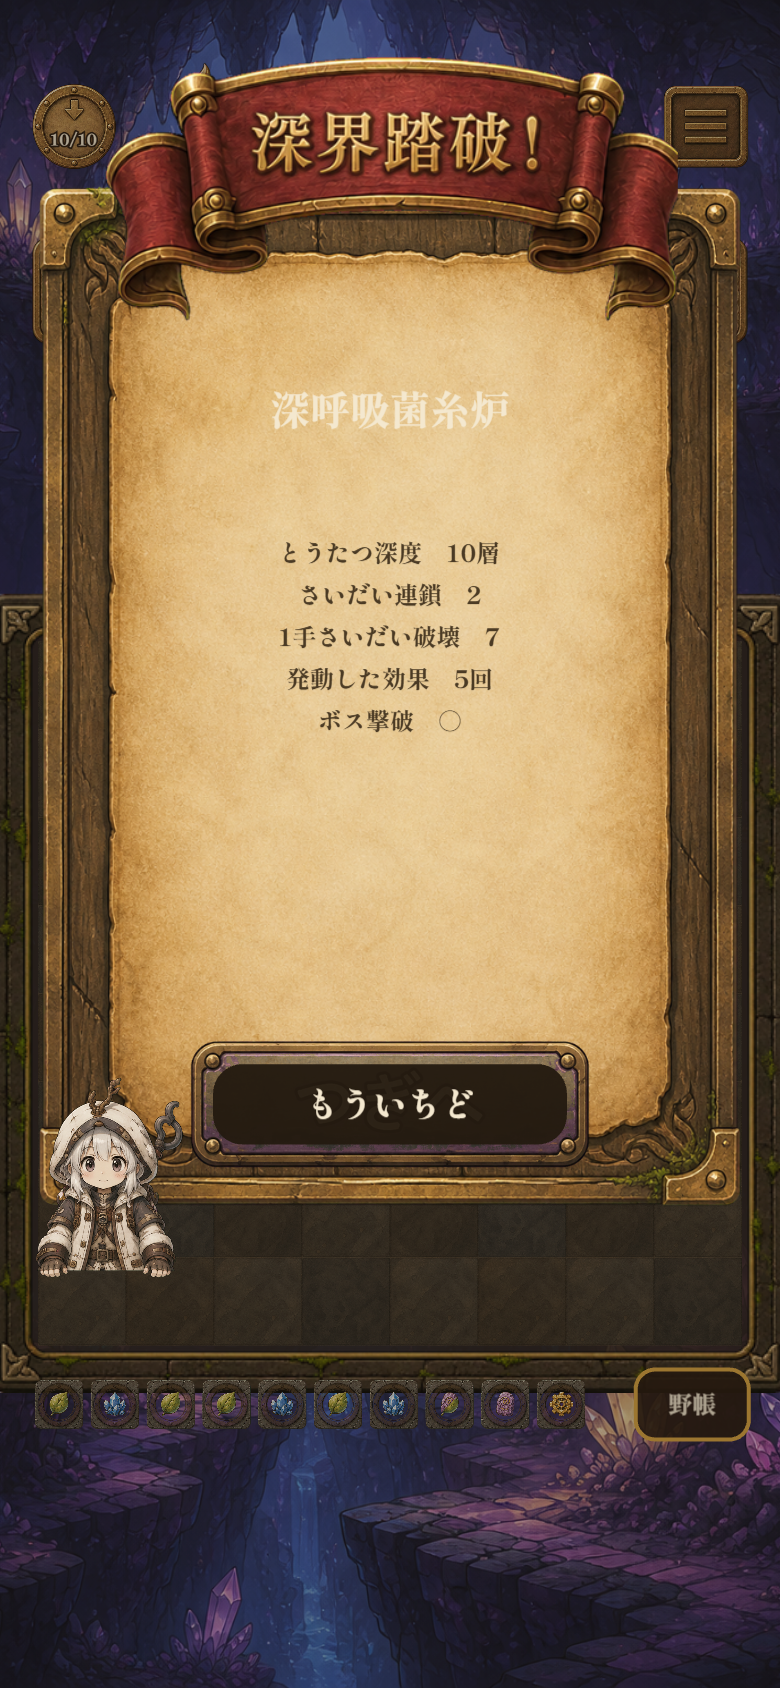
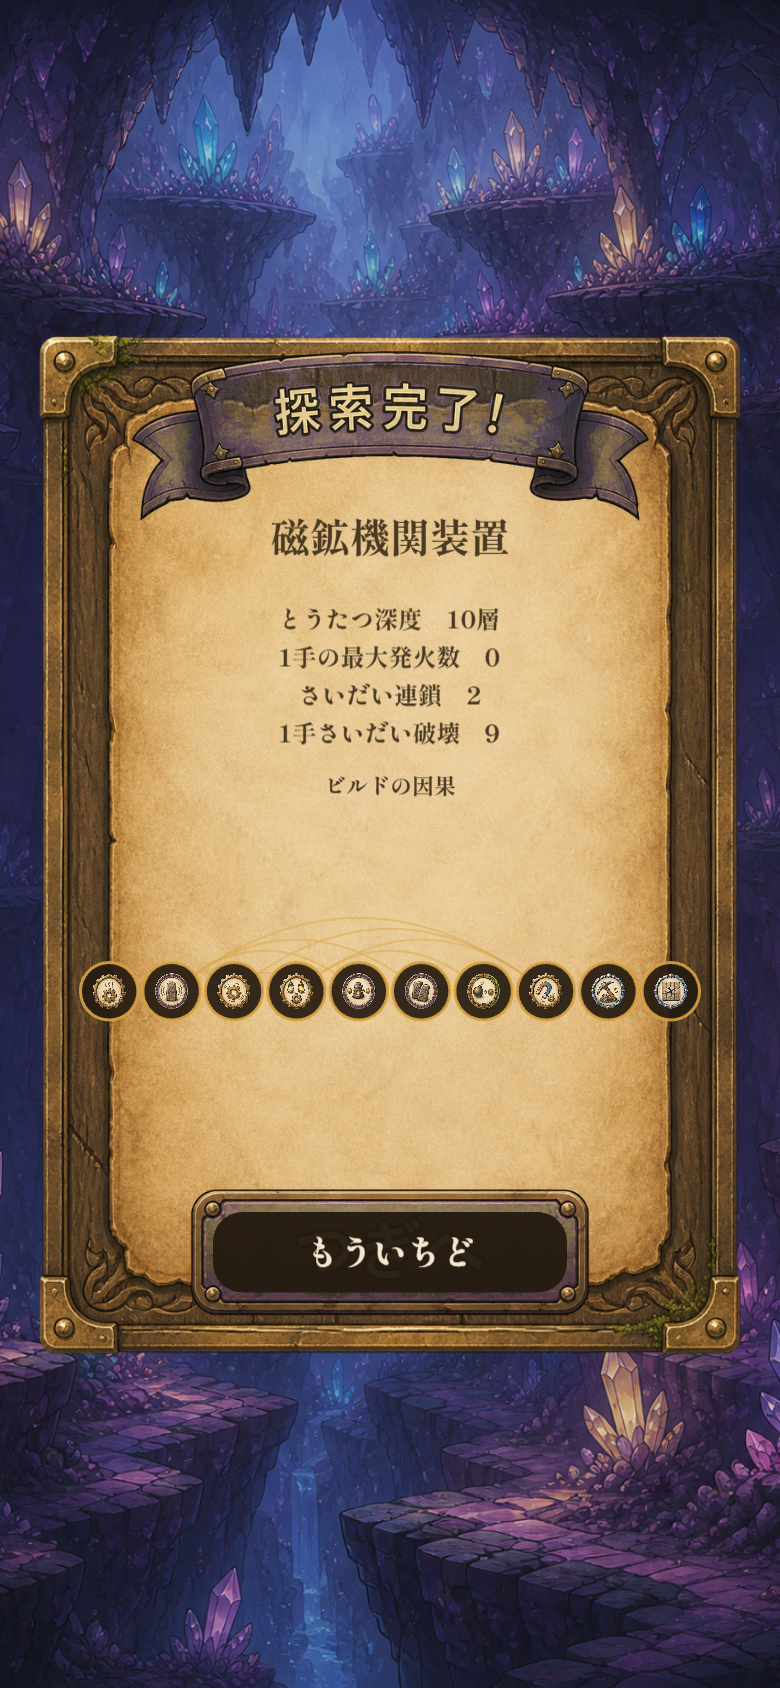
yacho(rogue): ラン結果を独立シーン化＋ビルドの因果図（監査[C]7 / [E]3）
指摘: 結果画面が旧画面の残骸（深度バッジ・メニュー・盤面・ドック）を背面に
残したままパネルを重ねており、ビルド名も羊皮紙上で低コントラストだった。

- playRoot を空にしてから描く独立シーンへ。層テーマ背景＋薄い暗幕
- 勝利はテーマ別リボン、敗北は「ここまでの記録」。「ボス撃破 ○」の行は削除
  （見出しで表現する）
- ビルド名を墨色にして可読性を確保
- 主記録に「1手の最大発火数」を新設（RunRecords.maxFiresInOneMove。
  board.ts は触らず main.ts で upgrade-fire を数えて更新）
- ビルドの因果図: 所持強化を固有アイコンで並べ、consumes/produces が繋がる
  もの同士を弧線で結ぶ。閉じた輪は強調
- 見出し「ビルドの因果」の色とアイコン下限サイズを調整（薄すぎ/小さすぎの解消）
- QA専用フック forceRunEnd(victory) を追加（結果画面の検証用）

QA: tsc 0 / 90テスト green / 勝敗×3サイズのスクショ確認 / 通し検証 pageerror 0

diff --git a/games/yacho/src/main.ts b/games/yacho/src/main.ts
@@ -1912,6 +1912,10 @@ async function boot() {
       const dur = view.play(evs)
       refreshFloorHud()
       refreshProgressBadges() // 可視化第二波④：1手ごとに進捗（あれば）を反映
+      // 結果画面の主記録用（夜間監査[C]7/[E]3）：1手＝このevs全体で発火した upgrade-fire の件数。board.ts は変更禁止のため
+      // main.ts側でイベント列を数えて集計する（board.ts が触らない run.records の追加フィールド）。
+      const firesThisMove = evs.reduce((n, e) => n + (e.t === 'upgrade-fire' ? 1 : 0), 0)
+      if (firesThisMove > run.records.maxFiresInOneMove) run.records.maxFiresInOneMove = firesThisMove
       for (const e of evs) {
         if (e.t === 'poison-triggered') {
           hpHitFx(1)
@@ -2307,7 +2311,9 @@ async function boot() {
       renderBottom() // 初期状態＝未選択（[D]：未選択時はボタンが「カードを選んで比較」のまま無効化）
     }
 
-    // ---------- 記録画面（層10クリア or run-over。ROGUE.md §7/§8） ----------
+    // ---------- 結果シーン（層10クリア or run-over。ROGUE.md §7/§8） ----------
+    // 夜間監査[C]7/[E]3：旧実装はプレイシーンへパネルを重ねるだけで、背後にHUD・盤面・ビルドドックの残骸が残っていた。
+    // 拠点シーン(showMap)と同じ作法でplayRootを一度空にしてから独立に描き直す。
     const showRunResult = (victory: boolean) => {
       inputLocked = true
       victory ? sfx.fanfare() : sfx.lose()
@@ -2315,15 +2321,29 @@ async function boot() {
       saveRogueBest(reached)
       const name = buildRunName(run.upgrades)
 
+      playRoot.removeAllListeners()
+      playRoot.removeChildren().forEach((c) => c.destroy({ children: true }))
+
       const panel = new Container()
+      // 背景は層テーマの背景を流用（暗幕は薄く。[C]7）
+      const bgSprite = new Sprite()
+      bgSprite.anchor.set(0.5)
+      bgSprite.position.set(vw / 2, vh / 2)
+      const bgTex = spriteTexture(`bg_${theme}`)
+      if (bgTex) {
+        bgSprite.texture = bgTex
+        bgSprite.scale.set(Math.max(vw / bgTex.width, vh / bgTex.height))
+      }
+      panel.addChild(bgSprite)
       const dim = new Graphics()
-      dim.rect(0, 0, vw, vh).fill({ color: 0x1a130c, alpha: 0.32 })
+      dim.rect(0, 0, vw, vh).fill({ color: 0x1a130c, alpha: 0.16 })
       panel.addChild(dim)
+
       const pw = vw * 0.9
       const panelTex = spriteTexture('ui_panel') ?? spriteTexture('ui_parchment')
-      const ph = panelTex ? Math.min(vh * 0.72, (pw / panelTex.width) * panelTex.height) : vh * 0.68
+      const ph = panelTex ? Math.min(vh * 0.8, (pw / panelTex.width) * panelTex.height) : vh * 0.7
       const px0 = (vw - pw) / 2
-      const py0 = vh * 0.11
+      const py0 = Math.max(vh * 0.03, (vh - ph) / 2)
       if (panelTex) {
         const sp = new Sprite(panelTex)
         const s = Math.min(pw / panelTex.width, ph / panelTex.height)
@@ -2331,13 +2351,15 @@ async function boot() {
         sp.position.set((vw - panelTex.width * s) / 2, py0)
         panel.addChild(sp)
       }
+
+      // 1) 見出し：勝利=テーマ別バナー、敗北=コード描画の見出し（「ボス撃破○×」は削り見出し自体で勝敗を示す）
       if (victory) {
-        const ribbonTex = spriteTexture('ui_banner_word') ?? spriteTexture('ui_ribbon_clear')
+        const ribbonTex = spriteTexture(`ribbon_${theme}`) ?? spriteTexture('ui_ribbon_clear')
         if (ribbonTex) {
           const rb = new Sprite(ribbonTex)
           rb.anchor.set(0.5)
-          rb.scale.set((pw * 0.82) / ribbonTex.width)
-          rb.position.set(vw / 2, py0 + vh * 0.002)
+          rb.scale.set((pw * 0.78) / ribbonTex.width)
+          rb.position.set(vw / 2, py0 + ph * 0.1)
           panel.addChild(rb)
         }
       } else {
@@ -2346,46 +2368,112 @@ async function boot() {
           style: { fill: UI.paperInk, fontSize: fs(0.05), fontFamily: FONT, fontWeight: 'bold' },
         })
         t0.anchor.set(0.5)
-        t0.position.set(vw / 2, py0 + ph * 0.12)
+        t0.position.set(vw / 2, py0 + ph * 0.1)
         panel.addChild(t0)
       }
+
+      // 2) ビルド名：白文字は羊皮紙上で読めないため濃い墨色に変更（[C]7）
       const nameT = new Text({
         text: name,
-        style: { fill: 0xf4e8cf, fontSize: fs(0.05), fontFamily: FONT, fontWeight: 'bold' },
+        style: { fill: UI.paperInk, fontSize: fs(0.05), fontFamily: FONT, fontWeight: 'bold', breakWords: true },
       })
       nameT.anchor.set(0.5)
-      nameT.position.set(vw / 2, py0 + ph * 0.22)
+      nameT.position.set(vw / 2, py0 + ph * 0.2)
       panel.addChild(nameT)
 
+      // 3) 主記録：最大同時発火数を昇格
       const records = [
         `とうたつ深度　${reached}層`,
+        `1手の最大発火数　${run.records.maxFiresInOneMove}`,
         `さいだい連鎖　${run.records.maxChain}`,
         `1手さいだい破壊　${run.records.maxDestroyed}`,
-        `発動した効果　${run.records.effectFires}回`,
-        `ボス撃破　${victory ? '○' : '×'}`,
       ]
+      const recordsTop = py0 + ph * 0.28
+      const recordLineH = fs(0.048)
       records.forEach((line, i) => {
         const t = new Text({
           text: line,
-          style: { fill: UI.paperInk, fontSize: fs(0.032), fontFamily: FONT, fontWeight: 'bold' },
+          style: { fill: UI.paperInk, fontSize: fs(0.03), fontFamily: FONT, fontWeight: 'bold' },
         })
         t.anchor.set(0.5)
-        t.position.set(vw / 2, py0 + ph * 0.36 + i * fs(0.055))
+        t.position.set(vw / 2, recordsTop + i * recordLineH)
         panel.addChild(t)
       })
+      const recordsBottom = recordsTop + (records.length - 1) * recordLineH + recordLineH * 0.6
 
-      const bustTex2 = spriteTexture(`bust_${theme}`)
-      if (bustTex2) {
-        const ch = new Sprite(bustTex2)
-        ch.anchor.set(0.5, 1)
-        const chH = Math.min(vh * 0.16, ((pw * 0.22) / bustTex2.width) * bustTex2.height)
-        ch.scale.set(chH / bustTex2.height)
-        ch.position.set(px0 + pw * 0.1, py0 + ph + vh * 0.045)
-        panel.addChild(ch)
+      // 4) ビルドの因果図：所持強化を固有アイコンで横一列に並べ、consumes/produces が繋がるアイコン同士を線で結ぶ。
+      //    閉じた輪（サイクル）に含まれる辺は太く強調する。
+      const buttonY = py0 + ph * 0.9
+      const graphTop = recordsBottom + fs(0.02)
+      const graphBottom = buttonY - fs(0.09)
+      const graphH = Math.max(fs(0.16), graphBottom - graphTop)
+      const owned = run.upgrades.map((id) => UPGRADES.find((u) => u.id === id)).filter((u): u is UpgradeDef => !!u)
+      if (owned.length > 0) {
+        const graphLabel = new Text({
+          text: 'ビルドの因果',
+          // 羊皮紙の上で薄すぎたため墨色に（見出しとして読めること優先）
+          style: { fill: UI.paperInk, fontSize: fs(0.028), fontFamily: FONT, fontWeight: 'bold' },
+        })
+        graphLabel.anchor.set(0.5, 0)
+        graphLabel.position.set(vw / 2, graphTop)
+        panel.addChild(graphLabel)
+
+        const rowY = graphTop + graphLabel.height + (graphH - graphLabel.height) / 2
+        const gLeft = px0 + pw * 0.1
+        const gRight = px0 + pw * 0.9
+        const n = owned.length
+        // アイコンは判別できる下限を確保する（小さすぎると外周の装飾しか見えない）
+        const iconR = n > 1 ? Math.max(fs(0.036), Math.min(fs(0.058), ((gRight - gLeft) / (n - 1)) * 0.46)) : fs(0.058)
+        const nodeX = (i: number) => (n > 1 ? gLeft + ((gRight - gLeft) / (n - 1)) * i : (gLeft + gRight) / 2)
+
+        // 辺の抽出：produces(a)とconsumes(b)が1つでも重なればa→b（アイコン同士。自己ループは対象外）
+        const edges: { from: number; to: number }[] = []
+        const adj: boolean[][] = Array.from({ length: n }, () => new Array(n).fill(false))
+        for (let i = 0; i < n; i++) {
+          for (let j = 0; j < n; j++) {
+            if (i === j) continue
+            const produces = owned[i].produces ?? []
+            const consumes = owned[j].consumes ?? []
+            if (produces.some((r) => consumes.includes(r))) {
+              edges.push({ from: i, to: j })
+              adj[i][j] = true
+            }
+          }
+        }
+        // 到達性の推移閉包：j→…→i が成り立つ辺i→jは閉じた輪の一部（強調対象）
+        const reach = adj.map((row) => row.slice())
+        for (let k = 0; k < n; k++)
+          for (let i = 0; i < n; i++) if (reach[i][k]) for (let j = 0; j < n; j++) if (reach[k][j]) reach[i][j] = true
+
+        const lineLayer = new Container() // 線をアイコンより奥に描く
+        panel.addChild(lineLayer)
+        for (const e of edges) {
+          const inLoop = reach[e.to][e.from]
+          const x1 = nodeX(e.from)
+          const x2 = nodeX(e.to)
+          const arc = Math.min(graphH * 0.42, Math.abs(x2 - x1) * 0.35 + fs(0.02))
+          const midX = (x1 + x2) / 2
+          const g = new Graphics()
+          g.moveTo(x1, rowY).quadraticCurveTo(midX, rowY - arc, x2, rowY)
+          if (inLoop) g.stroke({ width: Math.max(2, fs(0.006)), color: 0xf2c14e, alpha: 0.85 })
+          else g.stroke({ width: Math.max(1, fs(0.003)), color: UI.brass, alpha: 0.45 })
+          lineLayer.addChild(g)
+        }
+
+        owned.forEach((def, i) => {
+          const node = new Container()
+          const bg = new Graphics()
+          bg.circle(0, 0, iconR).fill({ color: 0x241a10, alpha: 0.92 }).stroke({ width: 1.5, color: UI.brass, alpha: 0.9 })
+          node.addChild(bg)
+          node.addChild(makeUniqueUpgradeIcon(def.id, iconR * 1.3))
+          node.position.set(nodeX(i), rowY)
+          panel.addChild(node)
+        })
       }
 
+      // 5) もういちど
       const btn = makeCoveredButton('もういちど', `next_${theme}`, pw * 0.6)
-      btn.position.set(vw / 2, py0 + ph * 0.9)
+      btn.position.set(vw / 2, buttonY)
       btn.eventMode = 'static'
       btn.cursor = 'pointer'
       btn.on('pointertap', () => {
@@ -2436,6 +2524,8 @@ async function boot() {
         if (def) showFieldNote(buildUpgradeEntry(def, run))
       },
       openSpecialNote: () => showFieldNote(buildSpecialPieceEntry()),
+      /** QA専用：結果画面を直接開く（10層まで自動で進める検証は不安定なため） */
+      forceRunEnd: (victory: boolean) => showRunResult(victory),
       openEnemyNote: () => {
         const e = board.enemies.find((en) => en.hp > 0)
         if (e) showFieldNote(buildEnemyEntry(e))

diff --git a/games/yacho/src/core/run.ts b/games/yacho/src/core/run.ts
@@ -24,6 +24,9 @@ export interface RunRecords {
   maxChain: number // 1手内で到達した最大連鎖数
   maxDestroyed: number // 1手内の最大破壊駒数
   effectFires: number // フック発動の総回数（ラン通算）
+  /** 結果画面・主記録昇格用（夜間監査[C]7/[E]3）：1手（1回のswap/tap）内で発火した upgrade-fire イベント数の最大値。
+   *  board.ts は変更禁止のため、main.ts の handleFloorResult がイベント列（BoardEvent[]）から件数を数えて更新する。 */
+  maxFiresInOneMove: number
   critical: boolean // フック発火上限(200/解決)に達したことがあるか＝暴走のご褒美フラグ（ROGUE.md §3）
   /** 進行曲線計測用（夜間監査[B][D]）：swarm（サンドバッグ）の隣接撃破伝播（propagateSwarmDefeat）で
    *  倒れた数のラン通算。runsim.ts が「ビルド由来の撃破」と分離して集計するために使う（ラン通算のため、
@@ -61,7 +64,7 @@ export function createRunState(upgrades?: string[], rng: Rng = makeRng(Date.now(
     gearCharge: 0,
     playerHp: 20,
     floor: 1,
-    records: { maxChain: 0, maxDestroyed: 0, effectFires: 0, critical: false, swarmPropagationKills: 0 },
+    records: { maxChain: 0, maxDestroyed: 0, effectFires: 0, maxFiresInOneMove: 0, critical: false, swarmPropagationKills: 0 },
     relicBoostNext: false,
     progress: {},
     startersApplied: [],
